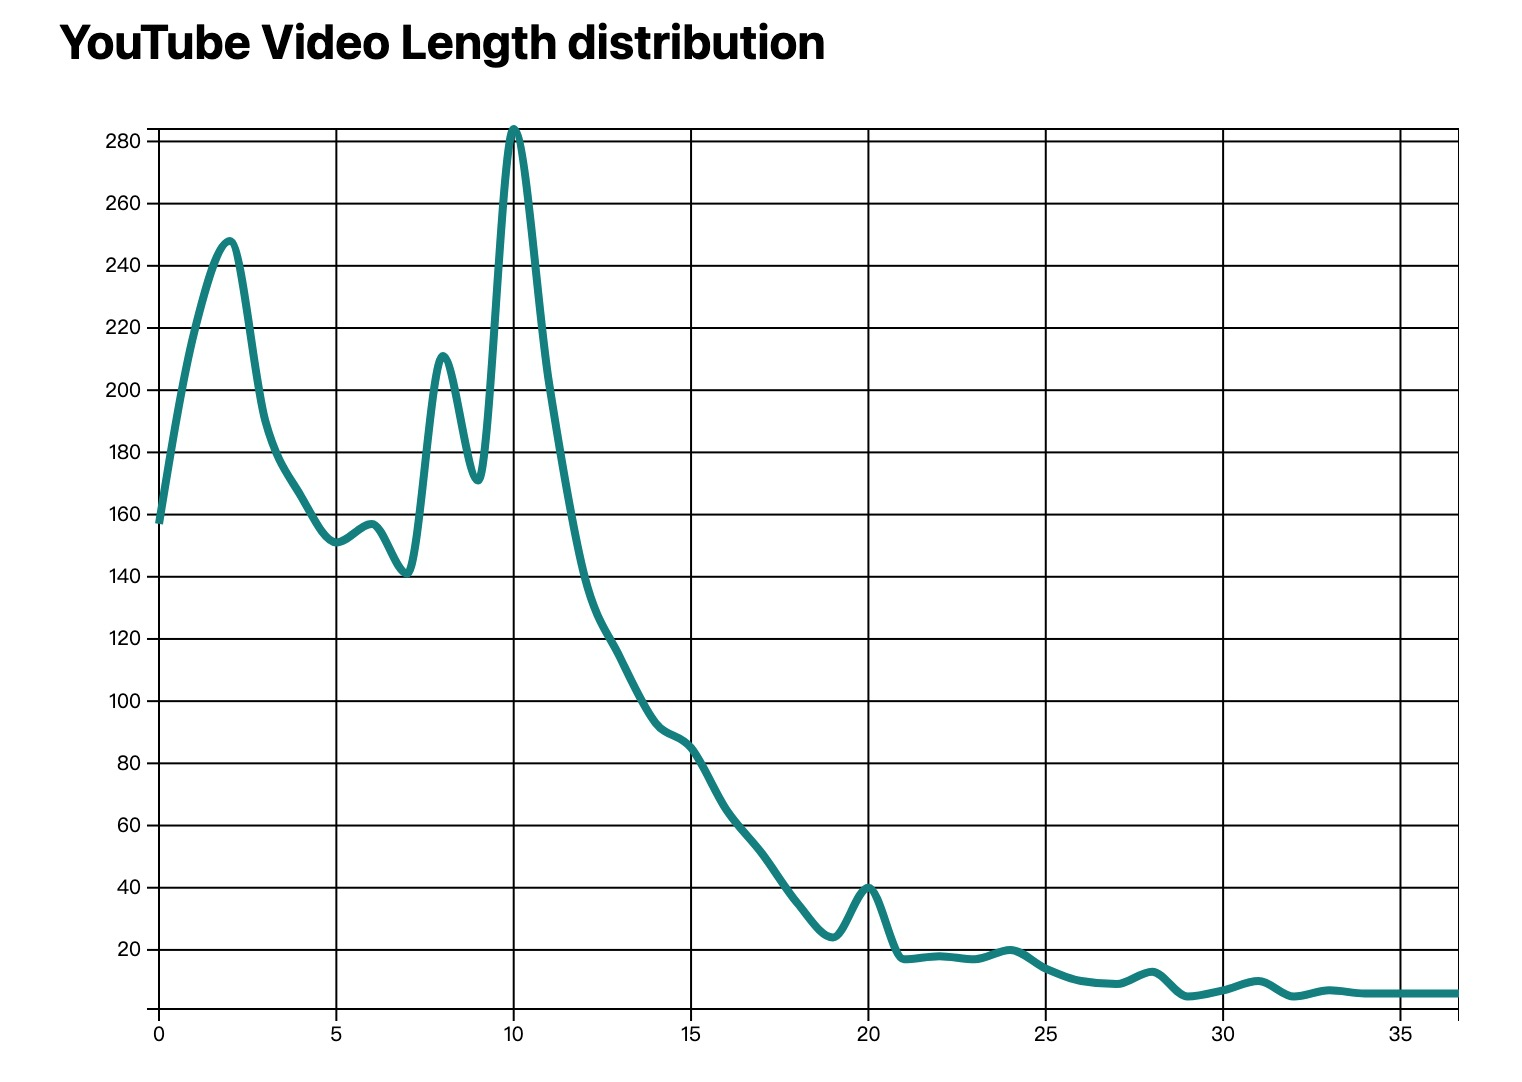
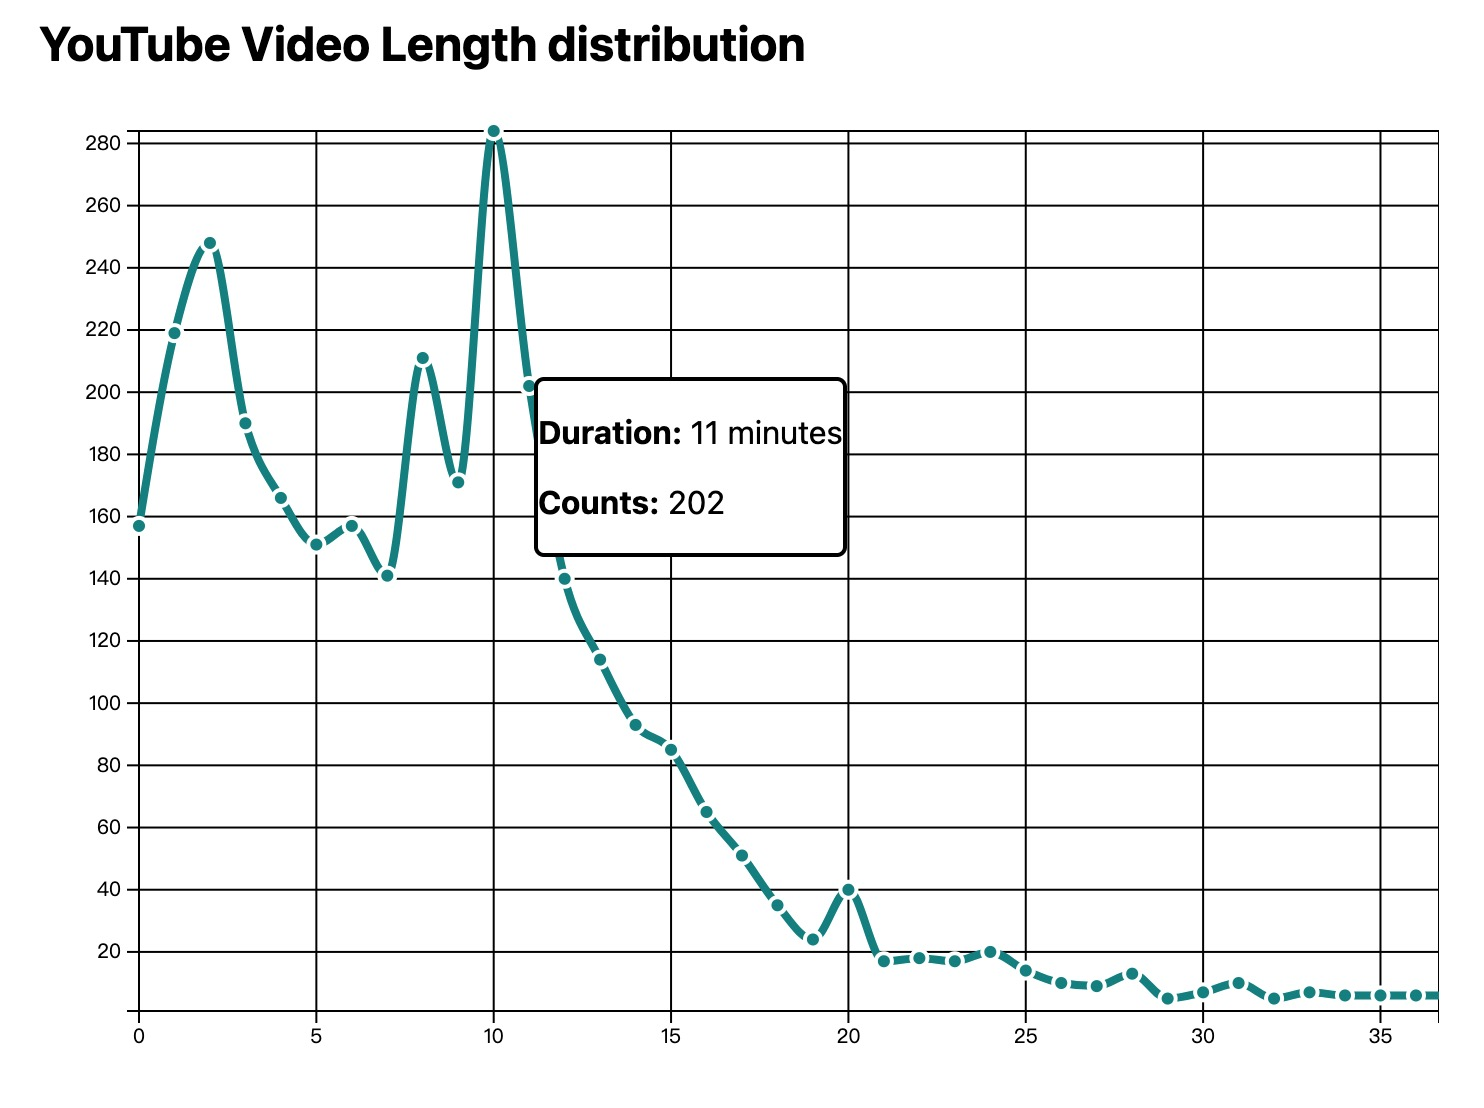
📃 docs(README img):
add screen shots and update README

Changed region(s): [[0.062, 0.0915, 0.9919, 0.976], [0.031, 0.0, 0.527, 0.061]]

diff --git a/d3-analysis-charts/src/utils/processor.js b/d3-analysis-charts/src/utils/processor.js
@@ -1,4 +1,3 @@
-const e = require("express");
 const nodejieba = require("nodejieba");
 const path_config = require("../path.config");
 const data = require(path_config.data_path);

diff --git a/README.md b/README.md
@@ -4,10 +4,11 @@ My YouTube watching history data analysis(mostly based on 2021)
 
 #### Here are some visualization 👇
 
-- matplotlib version:
+- matplotlib / wordcloud version:
   - ![](img/graphs.svg)
   - ![](img/video_length.svg)
   - ![](img/wordle.png)
 - D3.js version:
   - ![](img/graphs_d3.jpg)
+  - ![](img/graphs_d3_line.jpg)
   - ![](img/video_length_d3.jpg)
